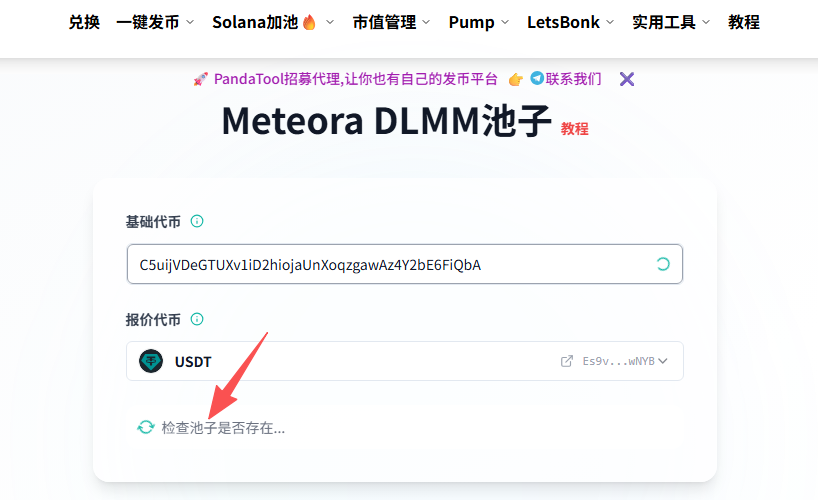
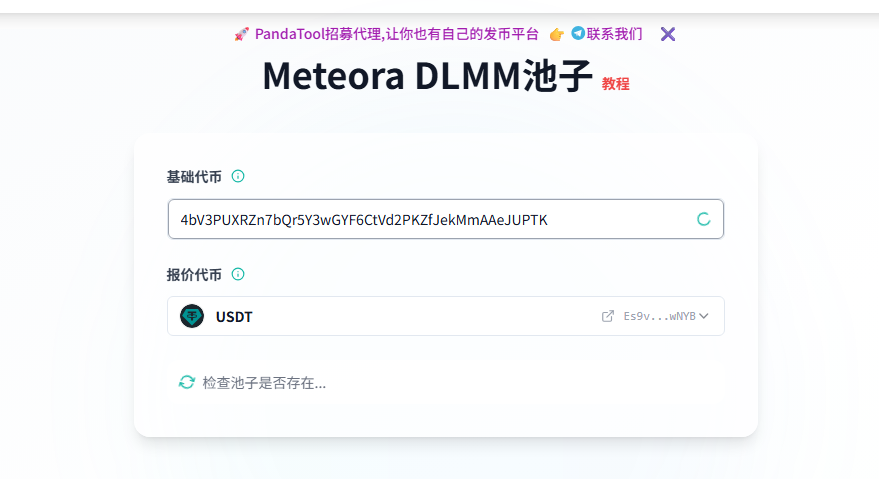
GITBOOK-445: No subject

diff --git a/sol/meteora.md b/sol/meteora.md
@@ -51,9 +51,9 @@ icon: meteor
 
 当我们选择好两种代币之后，系统会自动查询，确定该代币之前是否创建过流动性
 
-<figure><img src="../.gitbook/assets/3输入合约地址 (1).png" alt=""><figcaption></figcaption></figure>
+<figure><img src="../.gitbook/assets/3输入合约地址.png" alt=""><figcaption></figcaption></figure>
 
-查询完成后，接下来是输入交易价格。假设我输入的价格是1，我选择的基础代币名称是PandaTool、报价代币是USDT，这就意味着，在我创建好流动性资金池后，我的代币PandaTool的价格将以USDT作为基准，即1PandaTool=1USDT。假设我填0.1，那么就意味着1PandaTool=0.1USDT，以此类推
+查询完成后，接下来是输入交易价格。假设我输入的价格是1，我选择的基础代币名称是PandaTool、报价代币是USDT，这就意味着，在我创建好流动性资金池后，我的代币PandaTool的价格将以USDT作为基准，即**1PandaTool=1USDT**。假设我填0.1，那么就意味着1PandaTool=0.1USDT，以此类推
 
 {% hint style="success" %}
 该价格是永久交易价格，以后不敢交易多少次、交易多少数量，价格都不会变。而且一旦创建后不可修改，价格永久稳定。
@@ -73,7 +73,9 @@ icon: meteor
 <img src="../.gitbook/assets/5 错误提示.png" alt="" data-size="original">
 {% endhint %}
 
-到这一步，你的资金池就算是创建完成了。此时你一定会疑惑：我还没往资金池里放代币呢，怎么就完成了呢？别着急，放代币的问题，我们在下一步完成。
+到这一步，你的资金池就算是创建完成了。
+
+此时你一定会疑惑：**我还没往资金池里放代币呢，怎么就完成了呢？**&#x522B;着急，放代币的问题，我们在下一步完成。
 
 #### 3、创建流动性仓位 <a href="#id-1-da-kai-pandantool-bing-lian-jie-qian-bao" id="id-1-da-kai-pandantool-bing-lian-jie-qian-bao"></a>
 
@@ -84,6 +86,35 @@ icon: meteor
 <figure><img src="../.gitbook/assets/8跳转提示.png" alt=""><figcaption></figcaption></figure>
 
 跳转之后，您就可以看到代币流动性的操作管理页面
+
+<figure><img src="../.gitbook/assets/9 添加流动性.png" alt=""><figcaption></figcaption></figure>
+
+在仓位页面，您可以看到当前池子的代币数量，以及要添加的代币数量、价格范围等信息。目前，池子内没有任何代币，所以数量为0。接下来，我将分别填入两种代币数量：、
+
+* PandaTool：100000枚
+* USDT：1枚
+
+注意，两种代币的数量**可以随意填**，无需遵照任何比例。比如我现在设置的价格是1，但是添加代币的数量无需按照1:1的比例添加，随意就行。
+
+确认好入池数量后，点击添加流动性按钮，此时会弹出钱包进行确认
+
+<figure><img src="../.gitbook/assets/10添加流动性2.png" alt=""><figcaption></figcaption></figure>
+
+{% hint style="warning" %}
+在添加流动性的时候，请确保钱包内有至少**0.5个SOL**，否则可能无法交易
+{% endhint %}
+
+等待几秒钟后，流动性仓位即可创建成功，此时就能看到代币的流动性了
+
+<figure><img src="../.gitbook/assets/11 创建成功.png" alt=""><figcaption></figcaption></figure>
+
+#### 4、交易代币 <a href="#id-1-da-kai-pandantool-bing-lian-jie-qian-bao" id="id-1-da-kai-pandantool-bing-lian-jie-qian-bao"></a>
+
+既然流动性创建成功了，下面就可以交易了，以确定价格是否稳定。还是在这个页面，点击交易按钮进入交易页面
+
+<figure><img src="../.gitbook/assets/12 交易代币.png" alt=""><figcaption></figcaption></figure>
+
+可以发现，0.1USDT购买0.0999个代币，价格基本稳定在1USDT，浮动在万分之一左右，可以忽略不计，稳定性很高。
 
 ### 创建DLMM稳定池疑问解答 <a href="#chuang-jian-wen-ding-chi-de-bu-zhou" id="chuang-jian-wen-ding-chi-de-bu-zhou"></a>
 
@@ -101,8 +132,10 @@ icon: meteor
 
 **4、为什么我创建失败了？**
 
-* 答：Meteora不支持带有税率的代币，如果您是带有转账税率的Token2022的代币，则创建会失败
+* 答：Meteora不支持带有税率的代币，如果您是带有转账税率的Token2022的代币，则创建会失败。此外，创建仓位的话，钱包内应有不少于0.5个SOL，否则可能因为余额不够导致失败。
 
+**5、创建DLMM稳定池，需要多少费用？**
 
+* 答：第一步创建资金池是不需要费用的，创建仓位需要将近0.4SOL的费用。
 
 如果您对创建Meteora DLMM资金池还有其他的问题，可以加入我们的Telegram交流群：[https://t.me/pandatool](https://t.me/pandatool)
